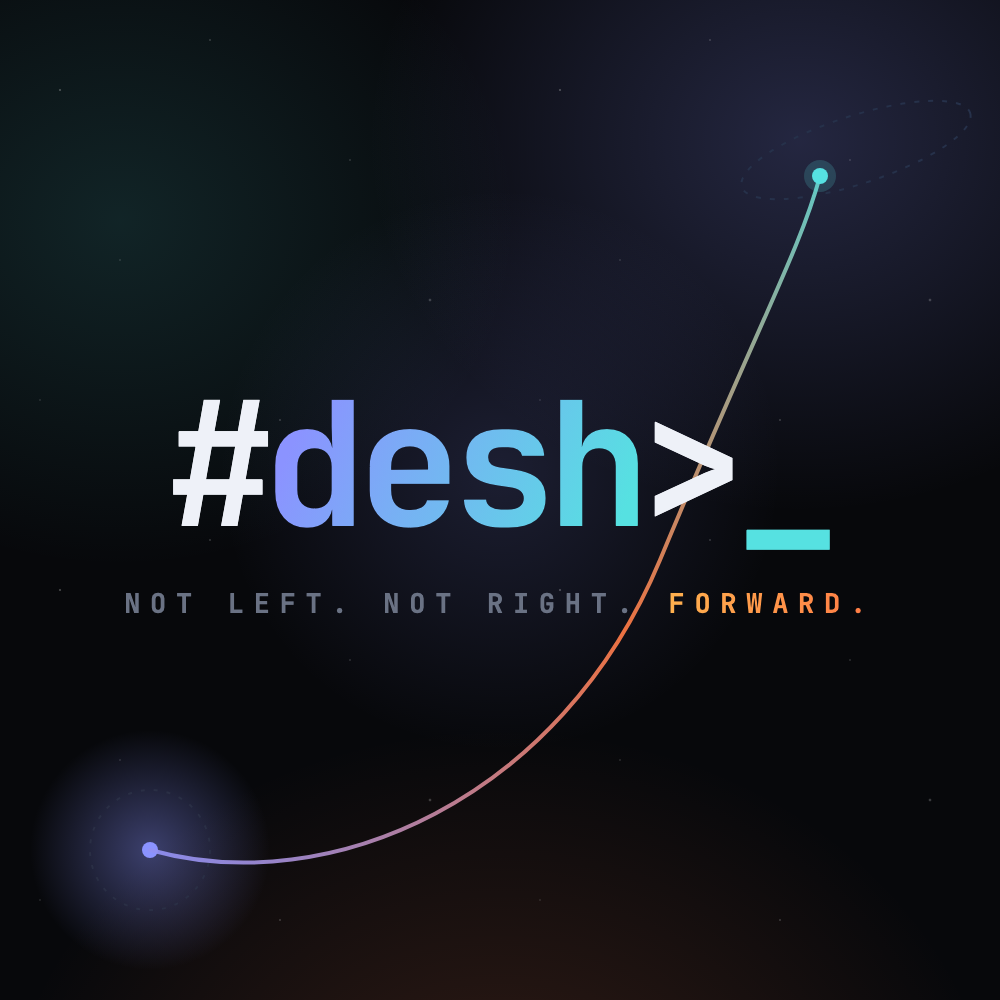
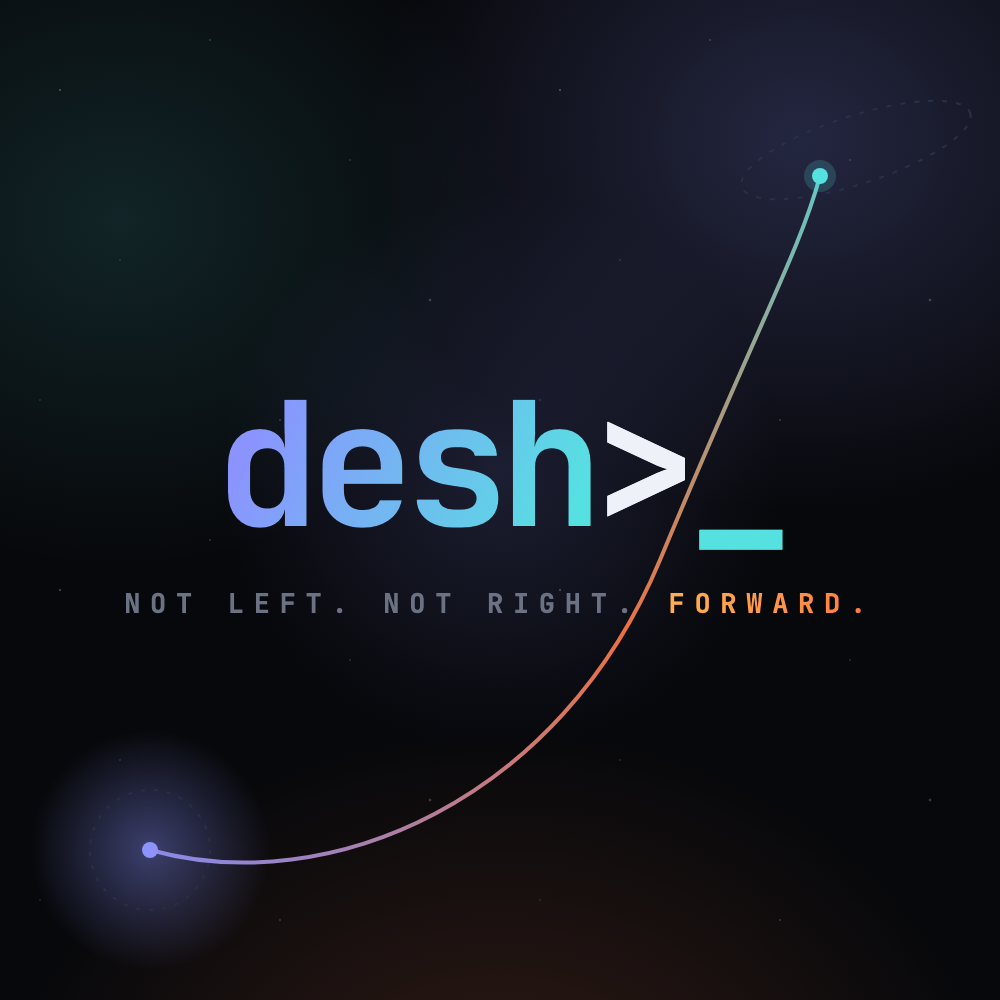
Drop the # sigil from the mark; rewrite the name section around composability
# is the root/superuser prompt. A decentralised system has no account that
can change everything, so the sigil asserted exactly the centralised authority
the thesis rejects. The old copy already felt this — it said "root access",
then immediately hedged to "not root over the country, but root over your
experience of it". Removing the sigil retires the hedge and lets the absence
of a superuser become the point.

- mark is now desh>_ across page titles, site title, header, both footers,
  five essay sign-offs and the README
- name section: "Root access to your experience of the country" ->
  "Programmatic access to citizen experience", rewritten to explain the
  prompt without a superuser and to land on composable, not administered
- regenerate all four brand PNGs from the updated templates (og 1200x630,
  avatar 1000x1000, twitter 1500x500, youtube 2560x1440) — these are what
  link previews, X and YouTube actually serve, and were still carrying the
  old logo
- rename id="root" and .root-band/.root-mark/.root-copy to name-* so the
  markup stops contradicting the copy. rootMargin in desh.js and :root in
  the CSS are untouched — different things that merely share the word.

Also, separately: stop hard-coding "three" for the primitives. Three are
worked out, the list is not finished. Adds a "Propose a primitive" v-next
card matching the existing pillar and curriculum affordances.

Claude-Session: https://claude.ai/code/session_01Prr4MH2nDSACNFj7qm1MuR

Changed region(s): [[0.155, 0.403, 0.744, 0.527], [0.775, 0.527, 0.837, 0.558], [0.682, 0.527, 0.744, 0.558]]

diff --git a/assets/css/desh.css b/assets/css/desh.css
@@ -262,26 +262,26 @@ h1, h2, h3 { font-family: var(--font-display); font-weight: 600; line-height: 1.
 .beat.orbit .n { color: var(--cyan); border-color: rgba(86,225,225,0.5); }
 
 /* ---- Root-access band ---------------------------------------------------- */
-.root-band {
+.name-band {
   display: grid; grid-template-columns: auto 1fr; gap: clamp(1.5rem, 5vw, 3.5rem);
   align-items: center; border: 1px solid var(--border); border-radius: var(--radius);
   background: linear-gradient(180deg, var(--surface-2), transparent); padding: clamp(1.8rem, 5vw, 3rem);
 }
-.root-band .prompt {
+.name-band .prompt {
   font-family: var(--font-mono); font-weight: 700; letter-spacing: -0.04em; line-height: 1;
   font-size: clamp(2.2rem, 7vw, 3.8rem); white-space: nowrap;
 }
-.root-band .prompt .p-dim { color: var(--text); }
+.name-band .prompt .p-dim { color: var(--text); }
 .prompt-caption {
   font-family: var(--font-mono); font-size: 0.78rem; letter-spacing: 0.14em; text-transform: uppercase;
   color: var(--text-muted); margin-top: 1.1rem; line-height: 1.55;
 }
-.root-band .caret { color: var(--cyan); animation: blink 1.1s steps(1) infinite; }
+.name-band .caret { color: var(--cyan); animation: blink 1.1s steps(1) infinite; }
 @keyframes blink { 50% { opacity: 0; } }
-.root-copy h2 { font-size: clamp(1.7rem, 4.4vw, 2.7rem); margin: 1rem 0; letter-spacing: -0.03em; }
-.root-copy p { color: var(--text-muted); font-size: 1.06rem; }
-.root-copy b { color: var(--text); font-family: var(--font-mono); font-weight: 700; }
-@media (max-width: 720px) { .root-band { grid-template-columns: 1fr; } }
+.name-copy h2 { font-size: clamp(1.7rem, 4.4vw, 2.7rem); margin: 1rem 0; letter-spacing: -0.03em; }
+.name-copy p { color: var(--text-muted); font-size: 1.06rem; }
+.name-copy b { color: var(--text); font-family: var(--font-mono); font-weight: 700; }
+@media (max-width: 720px) { .name-band { grid-template-columns: 1fr; } }
 
 .pull {
   font-family: var(--font-display); font-weight: 600;

diff --git a/_layouts/default.html b/_layouts/default.html
@@ -31,7 +31,7 @@
   <header class="site-header">
     <nav class="nav container" aria-label="Primary">
       <a href="/" class="brand" aria-label="DESH home">
-        <span class="mark">#<b>desh</b>&gt;_</span>
+        <span class="mark"><b>desh</b>&gt;_</span>
         <span class="brand-tag">// Not left. Not right. Forward.</span>
       </a>
       <ul class="nav-links" id="nav-links">
@@ -59,7 +59,7 @@
     <div class="container">
       <div class="footer-grid">
         <div class="footer-brand">
-          <div class="mark">#<span class="gradient-text">desh</span>&gt;_</div>
+          <div class="mark"><span class="gradient-text">desh</span>&gt;_</div>
           <div class="footer-acronym">Democratically Elected System Hackers</div>
           <p>A lab building a software-defined political party. We don't fight the gravity of corruption. We build the rocket that reaches orbit in spite of it.</p>
         </div>
@@ -84,7 +84,7 @@
         </div>
       </div>
       <div class="footer-bottom">
-        <span>© {{ site.time | date: "%Y" }} #desh&gt;_ · Not left. Not right. Forward.</span>
+        <span>© {{ site.time | date: "%Y" }} desh&gt;_ · Not left. Not right. Forward.</span>
         <span>If you want to change the world, don't protest. Write code.</span>
       </div>
     </div>

diff --git a/assets/brand/og.html b/assets/brand/og.html
@@ -54,7 +54,7 @@
   </svg>
   <div class="center">
     <div class="eyebrow">A lab · building a software-defined political party</div>
-    <div class="mark"><span class="dim">#</span><span class="g">desh</span><span class="dim">&gt;</span><span class="cur">_</span></div>
+    <div class="mark"><span class="g">desh</span><span class="dim">&gt;</span><span class="cur">_</span></div>
     <div class="tag"><span class="m">Not left. Not right.</span> <span class="f">Forward.</span></div>
   </div>
 </body></html>

diff --git a/assets/brand/avatar.html b/assets/brand/avatar.html
@@ -55,7 +55,7 @@
     <circle cx="820" cy="176" r="8" fill="#56e1e1"/>
   </svg>
   <div class="center">
-    <div class="mark"><span class="dim">#</span><span class="g">desh</span><span class="dim">&gt;</span><span class="cur">_</span></div>
+    <div class="mark"><span class="g">desh</span><span class="dim">&gt;</span><span class="cur">_</span></div>
     <div class="tag"><span class="m">Not left. Not right.</span> <span class="f">Forward.</span></div>
   </div>
 </body></html>

diff --git a/assets/brand/twitter.html b/assets/brand/twitter.html
@@ -52,7 +52,7 @@
     <circle cx="1392" cy="100" r="7" fill="#56e1e1"/>
   </svg>
   <div class="block">
-    <div class="mark"><span class="dim">#</span><span class="g">desh</span><span class="dim">&gt;</span><span class="cur">_</span></div>
+    <div class="mark"><span class="g">desh</span><span class="dim">&gt;</span><span class="cur">_</span></div>
     <div class="tag"><span class="m">Not left. Not right.</span> <span class="f">Forward.</span></div>
   </div>
 </body></html>

diff --git a/assets/brand/youtube.html b/assets/brand/youtube.html
@@ -52,7 +52,7 @@
     <circle cx="2168" cy="268" r="11" fill="#56e1e1"/>
   </svg>
   <div class="safe">
-    <div class="mark"><span class="dim">#</span><span class="g">desh</span><span class="dim">&gt;</span><span class="cur">_</span></div>
+    <div class="mark"><span class="g">desh</span><span class="dim">&gt;</span><span class="cur">_</span></div>
     <div class="tag"><span class="m">Not left. Not right.</span> <span class="f">Forward.</span></div>
   </div>
 </body></html>

diff --git a/index.md b/index.md
@@ -83,17 +83,17 @@ description: "DESH (Democratically Elected System Hackers) is a lab building a s
   </div>
 </section>
 
-<section class="section" id="root">
+<section class="section" id="name">
   <div class="container">
-    <div class="root-band reveal">
-      <div class="root-mark">
-        <div class="prompt" aria-hidden="true"><span class="p-dim">#</span><span class="gradient-text">desh</span><span class="p-dim">&gt;</span><span class="caret">_</span></div>
+    <div class="name-band reveal">
+      <div class="name-mark">
+        <div class="prompt" aria-hidden="true"><span class="gradient-text">desh</span><span class="p-dim">&gt;</span><span class="caret">_</span></div>
         <p class="prompt-caption">Democratically Elected<br>System Hackers</p>
       </div>
-      <div class="root-copy">
+      <div class="name-copy">
         <span class="eyebrow">The name</span>
-        <h2>Root access to your experience of the country.</h2>
-        <p>The mark is a root shell prompt. <b>#</b> is the superuser, the account that can change anything. <b>&gt;_</b> is the cursor, waiting for a command. The promise is more precise than it first sounds: not root over the country, but root over your experience of it. Everyone is unique, and real freedom is each person getting a personalised version of public services, not one queue and one form for everyone alike. Tailored to you, inside a single hard constraint: justice for all.</p>
+        <h2>Programmatic access to citizen experience.</h2>
+        <p>The mark is a command prompt. <b>&gt;_</b> is the cursor, waiting for an instruction. Note what is missing from it: there is no superuser. A decentralised system has no account that can change everything, and building one would just rebuild the thing we are trying to leave. What it offers instead is programmatic access — public services exposed as parts you can call and combine, so each person assembles the version that fits their life rather than queueing for the one version that fits nobody. Composable, not administered. Tailored to you, inside a single hard constraint: justice for all.</p>
       </div>
     </div>
   </div>
@@ -178,7 +178,7 @@ description: "DESH (Democratically Elected System Hackers) is a lab building a s
     <div class="section-head reveal">
       <span class="eyebrow">The primitives</span>
       <h2>The parts of the engine</h2>
-      <p>Three open protocols the rest of it runs on. Each one is specified in a litepaper.</p>
+      <p>The open protocols the rest of it runs on, each specified in a litepaper. Three are worked out so far. The list is not finished.</p>
     </div>
     <blockquote class="epigraph reveal">
       <p>You never change things by fighting the existing reality. To change something, build a new model that makes the existing model obsolete.</p>

diff --git a/primitives.md b/primitives.md
@@ -1,7 +1,7 @@
 ---
 layout: default
-title: "Primitives · #desh>_"
-description: "Three open protocols that make software-defined governance real: Amplifier, Pulse and FlowVote. Read the litepapers."
+title: "Primitives · desh>_"
+description: "The open protocols software-defined governance runs on. Three are specified so far — Amplifier, Pulse and FlowVote — and the list is not finished. Read the litepapers."
 permalink: /primitives/
 ---
 
@@ -9,7 +9,7 @@ permalink: /primitives/
   <div class="container narrow">
     <span class="eyebrow">Primitives</span>
     <h1 style="font-size:clamp(2.4rem,6vw,4rem)">The parts of the engine.</h1>
-    <p class="lede">Three open protocols: media that cannot be bought, governance that can be audited, and a vote you can lend to someone who knows more than you and take back the same afternoon. Each has a litepaper below. They are specifications rather than manifestos, and the useful response to a specification is an objection.</p>
+    <p class="lede">Three open protocols so far: media that cannot be bought, governance that can be audited, and a vote you can lend to someone who knows more than you and take back the same afternoon. Each has a litepaper below. They are specifications rather than manifestos, and the useful response to a specification is an objection. The engine needs more parts than three, and the rest are still being worked out.</p>
   </div>
 </section>
 
@@ -30,6 +30,11 @@ permalink: /primitives/
         <div class="p-name"><h3>FlowVote</h3><span class="badge">Voting</span></div>
         <p>Liquid democracy, made operational. Vote on what you care about and hand the rest to someone whose judgement you trust, one domain at a time. Delegation is transitive, revocable the moment you change your mind, and verifiable without exposing who you are.</p>
         <a href="/assets/documents/FlowVote-1.0.0.pdf" target="_blank" rel="noopener" class="link-arrow">Read litepaper <span class="arrow">→</span></a>
+      </div>
+      <div class="primitive card-next reveal">
+        <div class="p-name"><h3>Propose a primitive</h3><span class="badge">v-next</span></div>
+        <p>Media, money and voting are the three we have specified. They are not the whole engine. If a mechanism belongs in the foundation and none of these cover it, write the spec and make the case — same bar as the others, and it has to survive the five tests.</p>
+        <a href="mailto:help.me@joindesh.in?subject=A%20primitive%20you%27re%20missing" class="link-arrow">Propose one <span class="arrow">→</span></a>
       </div>
     </div>
   </div>

diff --git a/curriculum.md b/curriculum.md
@@ -1,6 +1,6 @@
 ---
 layout: default
-title: "Curriculum · #desh>_"
+title: "Curriculum · desh>_"
 description: "The bar for membership is a shared core. Before onboarding, every member gains working fluency in justice, economics, public policy, social physics, incentive engineering and systems thinking. Your domain gets you in the room; the core gets you a vote."
 permalink: /curriculum/
 ---

diff --git a/about.md b/about.md
@@ -1,6 +1,6 @@
 ---
 layout: default
-title: "About · #desh>_"
+title: "About · desh>_"
 description: "DESH is a lab building a software-defined political party: people who run the systems a country depends on, applying engineering discipline to governing instead of career politicians optimising for the next election."
 ---
 

diff --git a/join.md b/join.md
@@ -1,6 +1,6 @@
 ---
 layout: default
-title: "Join · #desh>_"
+title: "Join · desh>_"
 description: "A hundred people is the legal threshold to register a political party in India, our first test bed. We want that hundred to be domain experts. Clear the curriculum, contribute, and be one of them."
 ---
 

diff --git a/vision.md b/vision.md
@@ -1,6 +1,6 @@
 ---
 layout: default
-title: "Vision · #desh>_"
+title: "Vision · desh>_"
 description: "A state you can read: every rule it runs on written down, every change recorded, every outcome measured against what was promised. Test bed: India. The design assumes nothing about India."
 ---
 
